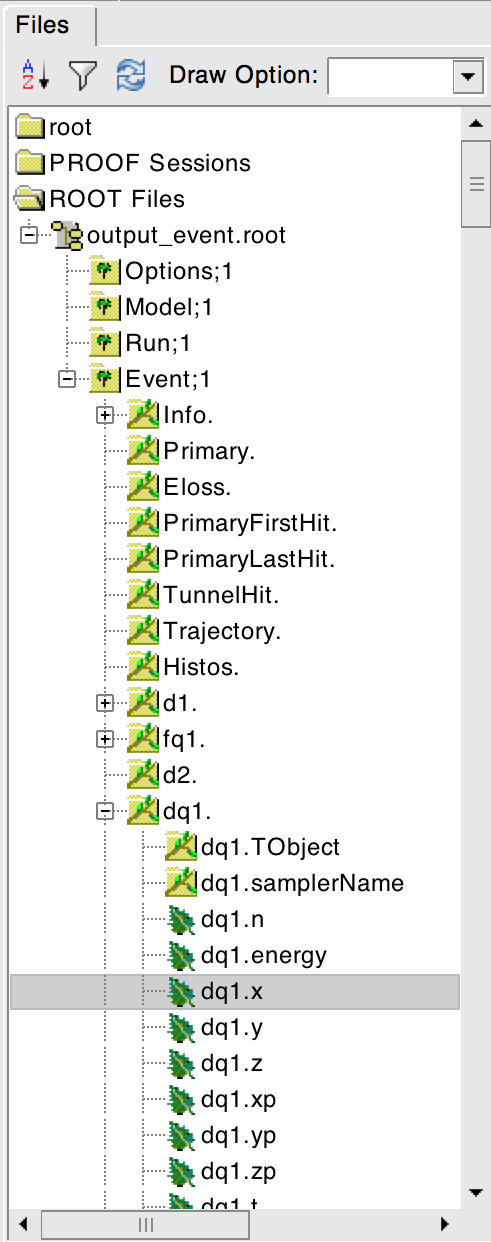
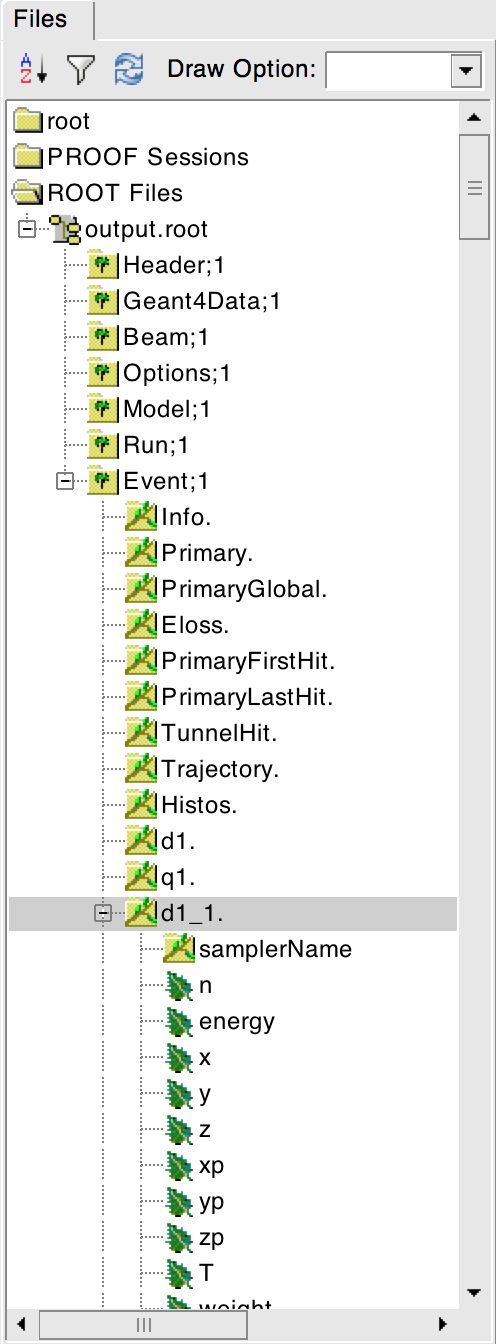
Manual updates for changes to output.
Former-commit-id: 9efb2451f2e024098138ffc77e774d82f29e3de2

Changed region(s): [[0.0, 0.0, 1.0, 1.0], [0.947, 0.9485, 1.0, 0.9791], [0.8859, 0.9791, 0.9165, 1.0]]

diff --git a/manual/source/output.rst b/manual/source/output.rst
@@ -420,6 +420,11 @@ different value per-event run in BDSIM.
 | Primary         | BDSOutputROOTEventSampler<float> | A record of the coordinates at the start of the  |
 |                 |                                  | simulation (before tracking)                     |
 +-----------------+----------------------------------+--------------------------------------------------+
+| PrimaryGlobal   | BDSOutputROOTEventCoords         | Global Cartesian coordinates of the primary      |
+|                 |                                  | particle. These are the same as those in         |
+|                 |                                  | "Primary" unless `S0` is specified in the beam   |
+|                 |                                  | distribution.                                    |
++-----------------+----------------------------------+--------------------------------------------------+
 | Eloss           | BDSOutputROOTEventLoss           | Coordinates of energy deposition in the          |
 |                 |                                  | accelerator material                             |
 +-----------------+----------------------------------+--------------------------------------------------+
@@ -451,17 +456,11 @@ different value per-event run in BDSIM.
 The types and names of the contents of each class can be found in the header files in
 :code:`bdsim/include/BDSOutputROOTEvent*.hh`. The contents of the classes are described below.
 
-.. note:: The primary coordinates are the exact coordinates supplied to Geant4 at the beginning of the event.
-	  Conceptually, these are 'local' coordinates with respect to the start of the beam
-	  line. However, if a finite `S0` is specified, the bunch distribution is transformed
-	  to that location in the World, therefore the coordinates are the **global** ones used.
-
 .. warning:: For large `S0` in a large model, a large distance as compared to the size of the beam
-	     may displace the primary coordinates, e.g. 1km offset for 1um beam. In this case, the
-	     limited precision of the `float` used to store the coordinates in the output may not show
-	     the beam distribution as expected. Internally, double precision numbers are used so the beam
-	     distribution is accurate. A float typically has seven significant figures and a double 15.
-
+	     may displace the primary coordinates, e.g. 1km offset for 1um beam. For this reason
+	     the PrimaryGlobal structure always uses double precision numbers, unlike the Primary structure
+	     and the other samplers that use floating point precision numbers (unless the ROOTDOUBLE
+	     cmake option is used for double precision in the samplers).
 
 
 BDSOutputROOTEventInfo
@@ -734,11 +733,36 @@ doubles the output file size.
 	     confusion. The primary output records all primary coordinates before they enter the tracking
 	     in the geometry, so it always contains all primary particles.
 
+BDSOutputROOTEventCorods
+************************
 
+.. tabularcolumns:: |p{0.20\textwidth}|p{0.30\textwidth}|p{0.4\textwidth}|
+
++-----------------+-------------+-------------------------------------------------------+
+|  **Variable**   | **Type**    |  **Description**                                      |
++=================+=============+=======================================================+
+| x               | double      | Global Cartesian x coordinate (m)                     |
++-----------------+-------------+-------------------------------------------------------+
+| y               | double      | Global Cartesian y coordinate (m)                     |
++-----------------+-------------+-------------------------------------------------------+
+| z               | double      | Global Cartesian z coordinate (m)                     |
++-----------------+-------------+-------------------------------------------------------+
+| xp              | double      | Global Cartesian unit momentum in x                   |
++-----------------+-------------+-------------------------------------------------------+
+| yp              | double      | Global Cartesian unit momentum in y                   |
++-----------------+-------------+-------------------------------------------------------+
+| zp              | double      | Global Cartesian unit momentum in z                   |
++-----------------+-------------+-------------------------------------------------------+
+| T               | double      | Time (ns)                                             |
++-----------------+-------------+-------------------------------------------------------+
+	     
+	     
 BDSOutputROOTEventHistograms
 ****************************
 
 This class contains the following data:
+
+.. tabularcolumns:: |p{0.20\textwidth}|p{0.30\textwidth}|p{0.4\textwidth}|
 
 +-----------------+---------------------+-------------------------------------------------------+
 |  **Variable**   | **Type**            |  **Description**                                      |
